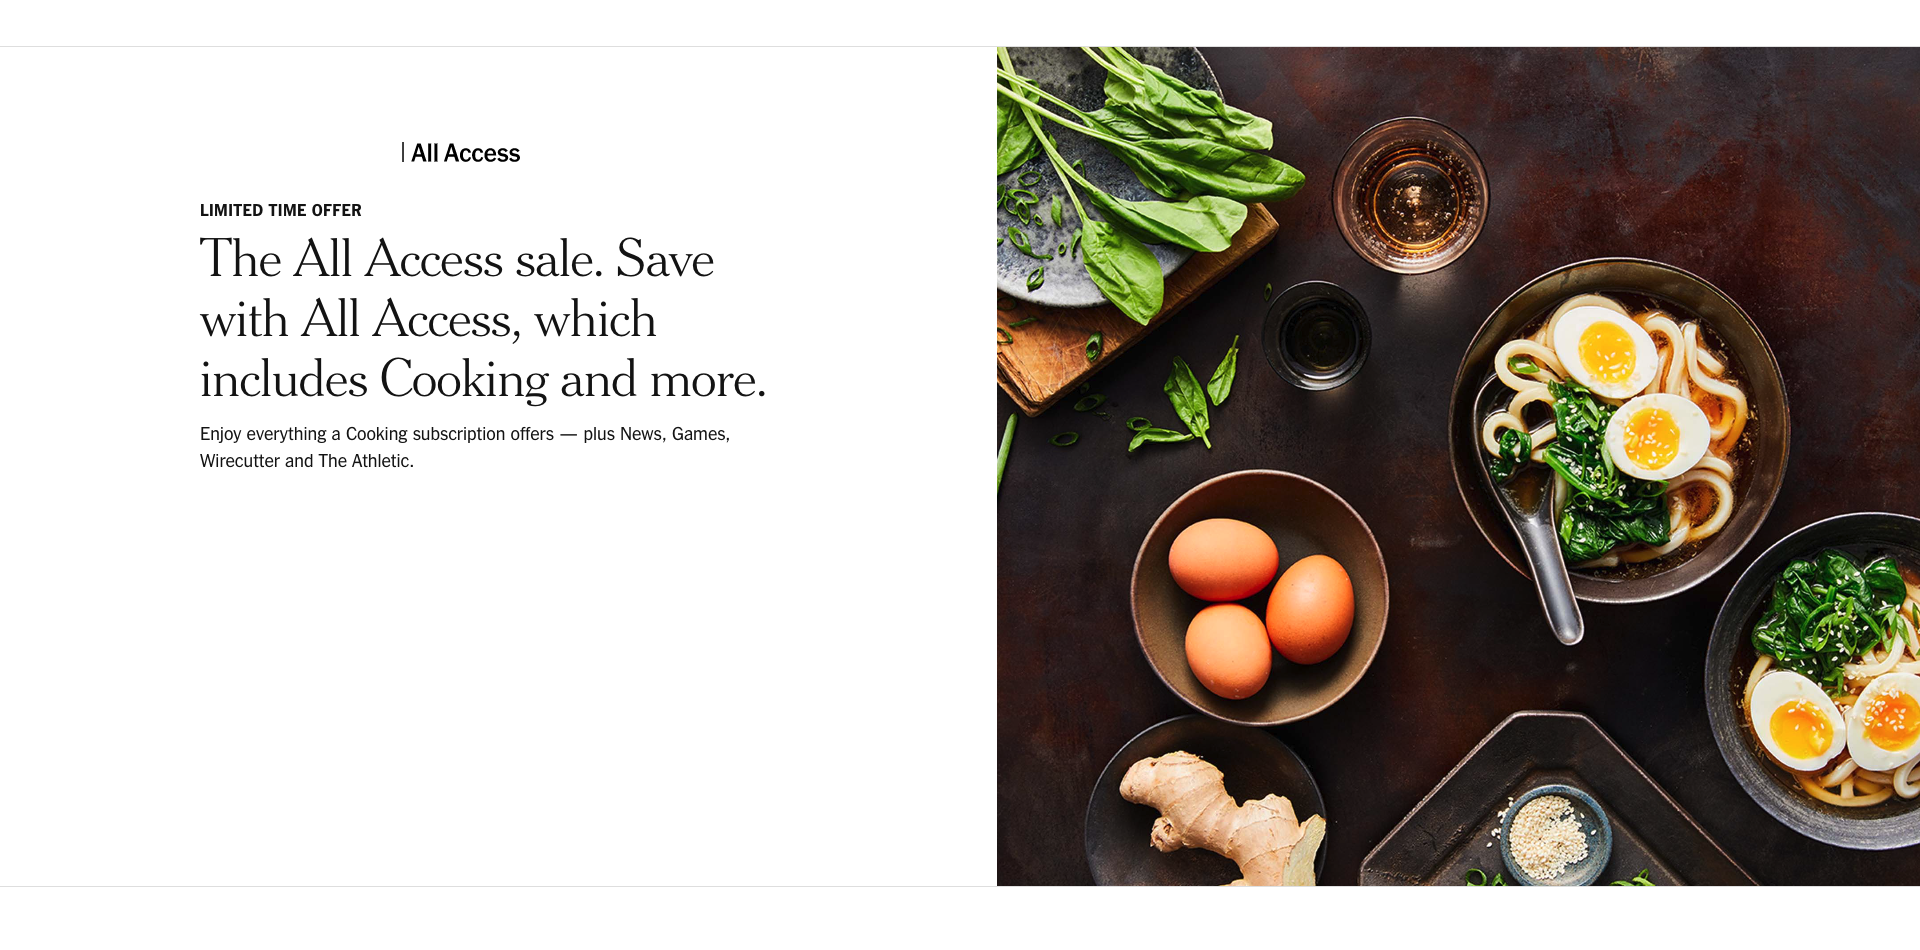
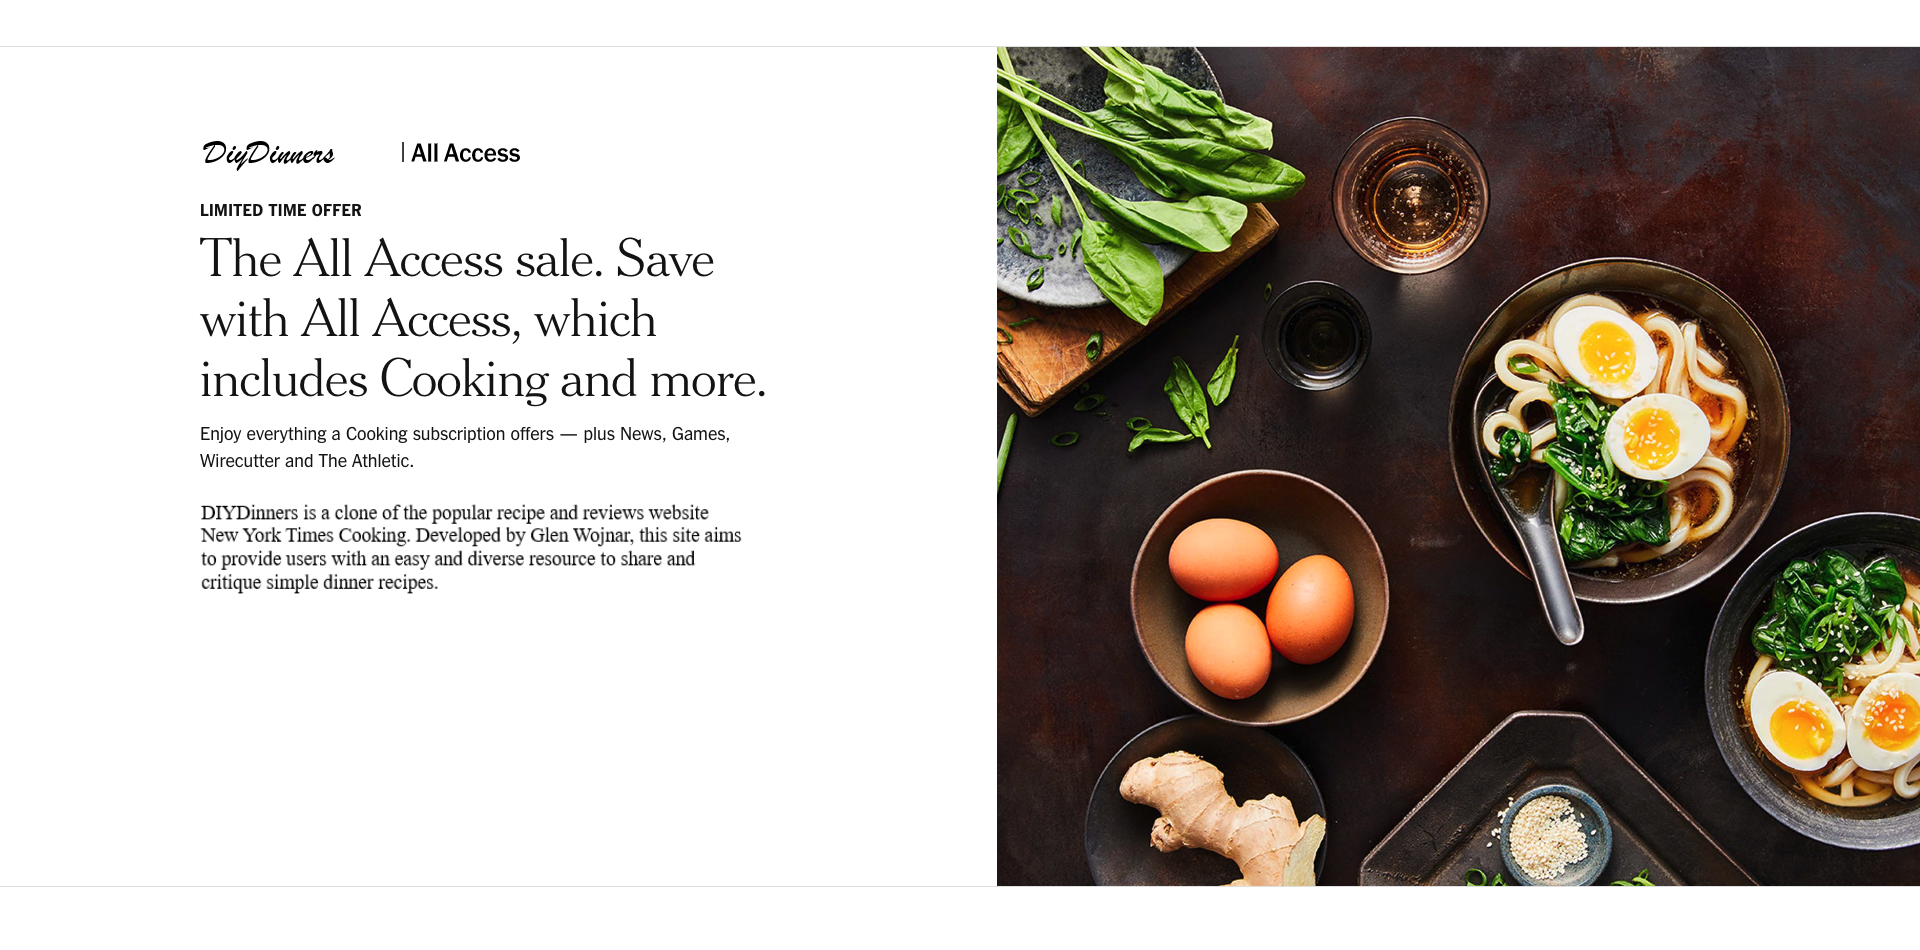
home page is functional

Changed region(s): [[0.0938, 0.5189, 0.375, 0.6411], [0.0938, 0.1526, 0.1875, 0.1832]]

diff --git a/react-app/src/components/HomePage/index.js b/react-app/src/components/HomePage/index.js
@@ -1,33 +1,77 @@
-import React, { useEffect } from "react";
+import React, { useEffect, useRef, useState } from "react";
 import { useSelector, useDispatch } from "react-redux";
-import { thunkLoadAllRecipes } from "../../store/recipe";
-import { thunkLoadAllReviews } from "../../store/review";
+import OpenModalButton from "../OpenModalButton";
+import LoginFormModal from "../LoginFormModal";
+import SignupFormModal from "../SignupFormModal";
 import { NavLink } from "react-router-dom";
 import RecipeCard from "../RecipeCard";
 import "./HomePage.css";
 
-
 const HomePage = () => {
   const dispatch = useDispatch();
-  const sessionUser = useSelector((state) => state.session.user);
-  const allRecipesData = useSelector(state => state.recipe.recipes)
-  let allRecipes;
-  if (allRecipesData) allRecipes = Object.values(allRecipesData);
-  useEffect(() => {
-    dispatch(thunkLoadAllRecipes())
-    dispatch(thunkLoadAllReviews())
-  }, [dispatch])
-  if (!allRecipes) {
-    return null
-  }
+  const ulRef = useRef();
+  const [showMenu, setShowMenu] = useState(false);
+
+  const closeMenu = (e) => {
+    if (!ulRef.current.contains(e.target)) {
+      setShowMenu(false);
+    }
+  };
 
   return (
-    <>
-    <div className="HomePageCompleteDiv">
-        <h2>DIYDinners</h2>
+    <div>
+      <div className="HomePageCompleteDiv"></div>
+      <div className="homePageButtons">
+        <div>
+          <OpenModalButton
+            buttonText="Log In"
+            onItemClick={closeMenu}
+            modalComponent={<LoginFormModal />}
+          />
+        </div>
+        <div>
+          <OpenModalButton
+            buttonText="Sign Up"
+            onItemClick={closeMenu}
+            modalComponent={<SignupFormModal />}
+          />
+        </div>
+      </div>
+      <div className="footers">
+        <div className="footer">
+          DIYDinners is a free service of The App Academy Times. It is a digital
+          cookbook and cooking guide alike, available on one platform, that
+          helps home cooks of every level discover, save and organize the
+          world’s most simple dinner recipes, while also helping them become
+          better, more competent cooks. No subscription needed for full access!
+        </div>
+        <div className="rightside-footer">
+          <div>
+            <a
+              className="link-footer"
+              href="https://github.com/glwo"
+              rel="noreferrer"
+              target="_blank"
+            >
+              Glen's Github
+              | <i className="fa-brands fa-github fa-xl" />
+            </a>
+          </div>
+          <div>
+            <a
+              className="link-footer"
+              href="https://github.com/glwo/DIYDinners"
+              rel="noreferrer"
+              target="_blank"
+            >
+              Project Repo
+              | <i className="fa-brands fa-github fa-xl" />
+            </a>
+          </div>
+        </div>
+      </div>
     </div>
-    </>
-  )
+  );
 };
 
 export default HomePage;

diff --git a/react-app/src/components/HomePage/HomePage.css b/react-app/src/components/HomePage/HomePage.css
@@ -2,15 +2,69 @@ html, body {
     height: 100%;
 }
 
-body {
+body .HomePageCompleteDiv {
     background-image:url('./DIYDhomepage.png');
     background-repeat: no-repeat;
     background-size: cover;
+    height: 100vh;
 }
 
-.HomePageCompleteDiv h2{
-    margin-left: 195px;
-    margin-top: 35px;
-    font-style: italic;
-    font-family: 'Gill Sans', 'Gill Sans MT', Calibri, 'Trebuchet MS', sans-serif;
+
+/* .HomePageTitle {
+    margin-top: 10vh;
+} */
+
+.homePageButtons {
+    display: flex;
+    flex-direction: row;
+    align-items: center;
+    justify-content: center;
+}
+
+.homePageButtons div {
+    padding: 2vh;
+}
+
+.homePageButtons button {
+    background-color: #df321b;
+    color: white;
+    border: none;
+    border-radius: 1vh;
+    padding: 1vh;
+    cursor: pointer;
+}
+
+.homePageButtons button:hover {
+    background-color: #c62914;
+}
+
+.footers {
+    background-color:
+    #121212;
+    height: fit-content;
+    display: flex;
+    flex-direction: row;
+    justify-content: space-between;
+}
+
+.footer {
+    color: white;
+    width: 35vw;
+    padding: 5vh;
+}
+
+.rightside-footer {
+    display: flex;
+    flex-direction: column;
+    color: white;
+    padding: 5vh;
+}
+
+.rightside-footer div{
+    padding: 0.5vh;
+}
+
+.rightside-footer a {
+    color: white;
+    text-decoration: none;
 }

diff --git a/react-app/src/components/SignupFormModal/index.js b/react-app/src/components/SignupFormModal/index.js
@@ -3,6 +3,7 @@ import { useDispatch } from "react-redux";
 import { useModal } from "../../context/Modal";
 import { signUp } from "../../store/session";
 import { login } from "../../store/session";
+import { useHistory } from "react-router-dom";
 import "./SignupForm.css";
 
 function SignupFormModal() {
@@ -17,6 +18,7 @@ function SignupFormModal() {
 	const [confirmPassword, setConfirmPassword] = useState("");
 	const [errors, setErrors] = useState([]);
 	const { closeModal } = useModal();
+	const history = useHistory()
 
 	function checkURL(imageUrl) {
 		return(imageUrl.match(/\.(jpeg|jpg|gif|png)$/) != null);
@@ -42,13 +44,14 @@ function SignupFormModal() {
 			setErrors(["Password must be at least six characters long"])
 			return
 		}
-		
+
 		if (password === confirmPassword) {
 			const data = await dispatch(signUp(first_name, last_name, username, email, img_url, bio, password));
 			if (data) {
 				setErrors(data);
 			} else {
 				closeModal();
+				history.push("/recipes")
 			}
 		} else {
 			setErrors([
@@ -73,6 +76,7 @@ function SignupFormModal() {
 			if (data && data.errors) setErrors(data.errors);
 		  }
 		);
+		history.push("/recipes")
 	}
 
 	return (

diff --git a/react-app/src/components/LoginFormModal/index.js b/react-app/src/components/LoginFormModal/index.js
@@ -2,6 +2,7 @@ import React, { useState } from "react";
 import { login } from "../../store/session";
 import { useDispatch } from "react-redux";
 import { useModal } from "../../context/Modal";
+import { useHistory } from "react-router-dom";
 import "./LoginForm.css";
 
 function LoginFormModal() {
@@ -10,6 +11,7 @@ function LoginFormModal() {
   const [password, setPassword] = useState("");
   const [errors, setErrors] = useState([]);
   const { closeModal } = useModal();
+  const history = useHistory()
 
   const handleSubmit = async (e) => {
     e.preventDefault();
@@ -18,6 +20,7 @@ function LoginFormModal() {
       setErrors(data);
     } else {
         closeModal()
+        history.push("/recipes")
     }
   };
 
@@ -37,6 +40,7 @@ function LoginFormModal() {
         if (data && data.errors) setErrors(data.errors);
       }
     );
+    history.push("/recipes")
   }
 
   return (

diff --git a/react-app/src/components/RecipePage/RecipePage.css b/react-app/src/components/RecipePage/RecipePage.css
@@ -6,6 +6,13 @@
     /* margin: 0px 10px 0px 0px; */
     margin-left: 13.5vh;
 }
+/* .recipeRootDiv body{
+background-image: none;
+} */
+
+/* body{
+    background-image:none;
+} */
 
 #recipe-details-inner {
     display: flex;

diff --git a/react-app/src/components/Navigation/ProfileButton.js b/react-app/src/components/Navigation/ProfileButton.js
@@ -35,6 +35,7 @@ function ProfileButton({ user }) {
   const handleLogout = (e) => {
     e.preventDefault();
     dispatch(logout());
+    closeMenu()
     history.push('/')
   };
 
